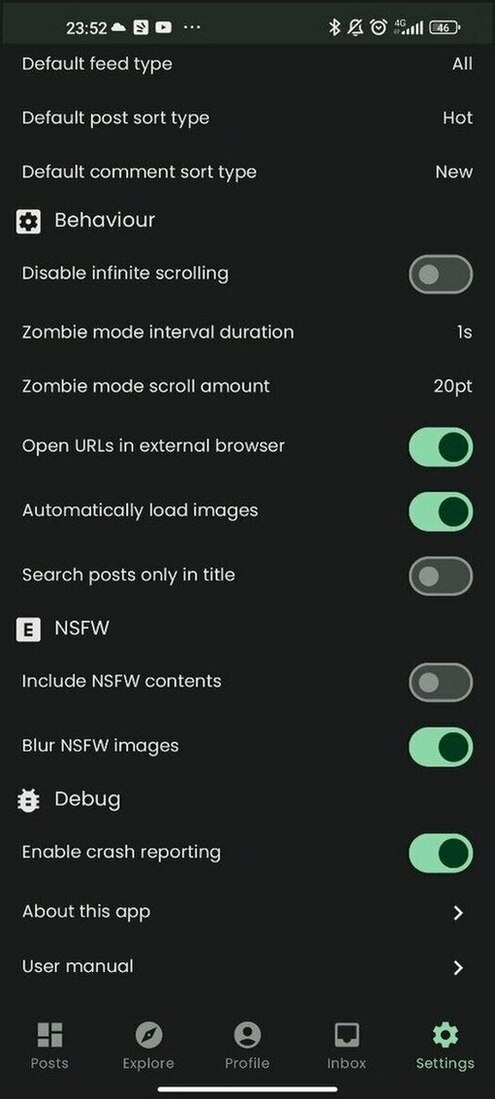
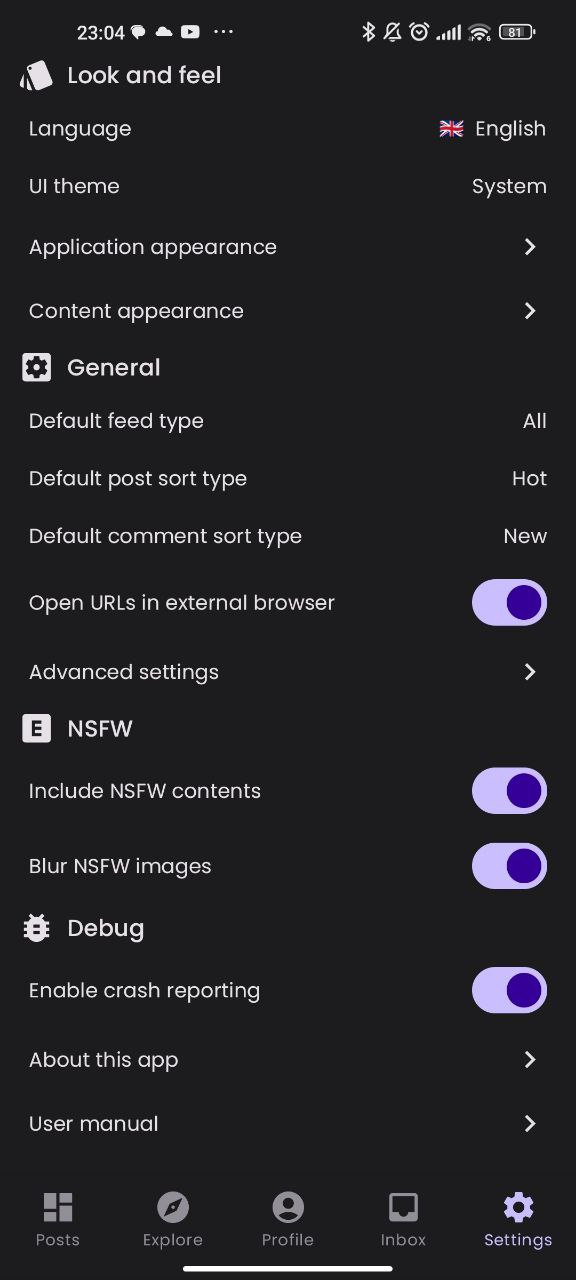
chore: update user manual (#637)

diff --git a/docs/user_manual/anon_user.md b/docs/user_manual/anon_user.md
@@ -45,6 +45,8 @@ If your preferred instance is not listed, you can add a new one using the "+" bu
 <img width="310" alt="side menu select instance" src="images/anon_select_instance.png" />
 <img width="310" alt="add instance" src="images/anon_add_instance.png" />
 
+It is possible to reorder items in this list to arrange how instances are displayed.
+
 ### 1.4 Community detail
 
 By tapping on the community info above each post title, you can open the community detail screen,
@@ -72,7 +74,17 @@ information.
 The explore screens allows you to search Lemmy (among All or local feeds) for contents and filter by
 a query string and result type (post, comment, communities, users or everything).
 
-<img width="310" alt="explore" src="images/anon_explore.png" />
+You can change the result type with the second to last action in the top bar, the available options are:
+
+- posts
+- communities
+- comments
+- users
+- URLs.
+
+As in the home screen, you can change the sort type with the last action on the right in the top bar.
+
+<img width="310" alt="explore" src="images/explore.jpg" />
 
 ### 1.7 Profile and Inbox
 
@@ -89,38 +101,15 @@ The settings screen allows you to customize the look and behaviour of your app.
 - Look and feel:
     - Language: choose UI language (app specific);
     - UI theme: choose between light, dark, totally dark or system theme;
-    - System notification and navigation bar theme: if you enable edge-to-edge display, choosing "
-      Transparent" makes the status and nav bar completely transparent, otherwise they have the
-      system color with a slight alpha to make them more visible;
-    - Show navigation bar titles: include the section titles in the bottom navigation bar;
-    - Colors and fonts: opens the color and font configuration screen;
-- Post and comments:
-    - Post layout: choose a layout (Card, Compact, Full) for posts;
-    - Use display names for users and communities: if enabled, uses the user display name and the
-      community title whenever possible, otherwise fallbacks to Lemmy handles (
-      e.g. `!raccoonforlemmy@lemmy.world`);
-    - Vote format: see the score of posts and comments as aggregated (`upvotes - downvotes`), split
-      or percentage (`upvotes / (upvotes + downvotes) * 100`);
-    - Full height images: show images with scaled width and full height (instead of capping the
-      height) in the feed;
+    - Application appearance: opens the configuration screen for colors and fonts of the user interface;
+    - Content appearance: opens the configuration screen for fonts and style of posts and comments;
+- General:
     - Default feed type: listing type for the home screen applied by default
     - Default post sort type: sort type for the home, community detail and user detail applied by
       default;
     - Default comment sort type: sort type for post detail applied by default to comments;
-- Behaviour:
-    - Edge to edge contents: enable the view from top to bottom edge for home, community detail,
-      user detail, post detail and profile to maximize the space dedicated to contents;
-    - Disable infinite scrolling: if this option is enabled, instead of automatically fetching new
-      contents while scrolling (in home, community detail, post detail, user detail) an explicit "
-      Load more" button is shown, in order to prevent the "doom scrolling" effect;
-    - Zombie mode interval duration: amount of time between automatic scroll in "lazy mode";
-    - Zombie mode scroll amount: translation amount for the automatic scroll in "lazy mode";
-    - Hide navigation bar while scrolling: makes the bottom navigation bar invisible while scrolling
-      down to maximize the space dedicated to contents;
-    - Open links in external browser: rely on the external browser instead of in-app web view;
-    - Automatically expand comments: expand all comment threads while opening the post detail;
-    - Automatically load images: load images and videos automatically in post and comments;
-    - Search posts only in title: enable exact match in the Explore section while searching posts;
+    - Open URLs in external browser: rely on the external browser instead of in-app web view;
+    - Advanced settings: opens a detailed configuration screen for more advanced options;
 - NSFW:
     - Include NSFW contents: determine whether NSFW contents are included in the feed by default;
     - Blur NSFW images: in home feed and community (unless the community is marked as NSFW as a
@@ -145,7 +134,7 @@ via adb or the "Device Explorer" if you are using Android Studio.
 <img width="310" alt="settings first part" src="images/anon_settings_1.jpg" />
 <img width="310" alt="settings second part" src="images/anon_settings_2.jpg" />
 
-#### 1.8.1 Colors and fonts
+#### 1.8.1 Application appearance
 
 This screen allows to configure colors and fonts of the UI:
 
@@ -154,12 +143,8 @@ This screen allows to configure colors and fonts of the UI:
 - Custom theme color: (requires "Use dynamic color" option to be off) generate a palette by
   choosing a seed color from a predefined list or custom color;
 - Comment bar theme: palette of colors used to distinguish nested comments;
-- Comment bar width: allows to customize a multiplier applied to the width of comment bar indicating
-  the depth on the left of each comment;
-- UI font family: typeface used for the app UI elements (menus, labels, etc);
-- Content font family: typeface used for post and comments on Lemmy;
+- UI font: typeface used for the app UI elements (menus, labels, etc.);
 - UI text size: scale factor to apply to the app UI elements;
-- Content text size: scale factor to apply to posts and comments on Lemmy;
 
 By the way, if you like Android dynamic colors and you think that on Lemmy there are plenty of
 beautiful images you could set as your home screen background, have a look
@@ -167,7 +152,65 @@ at [this side project](https://github.com/diegoberaldin/CommonGround) of mine. I
 that allows you to configure remote image sources from the Lemmy-verse, preview how they look like
 and set them easily as wallpapers for your home and lock screens.
 
-<img width="310" alt="colors and fonts" src="images/anon_color_fonts.jpg" />
+<img width="310" alt="colors and fonts" src="images/anon_appearance.jpg" />
+
+#### 1.8.2 Content appearance
+
+This screen is useful to configure the aspect of Lemmy contents (usernames, community names, post and comments).
+
+- Text
+    - Content font family: typeface used for post and comments on Lemmy;
+    - Title text size:
+    - Post text size:
+    - Comment text size:
+    - Ancillary text size:
+- Customizations:
+    - Post layout:  choose a layout (Card, Compact, Full) for posts;
+    - Use display names for users and communities: if enabled, uses the user display name and the
+      community title whenever possible, otherwise fallbacks to Lemmy handles (
+      e.g. `!raccoonforlemmy@lemmy.world`);
+    - Full height images: show images with scaled width and full height (instead of capping the
+      height) in the feed;
+    - Vote format: see the score of posts and comments as aggregated (`upvotes - downvotes`), split
+      or percentage (`upvotes / (upvotes + downvotes) * 100`);
+    - Comment bar thickness: allows to customize a multiplier applied to the width of comment bar indicating
+      the depth on the left of each comment.
+
+You can see a preview of the result below the list of options.
+
+<img width="310" alt="settings first part" src="images/content_appearance_1.jpg" />
+<img width="310" alt="settings second part" src="images/content_appearance_2.jpg" />
+
+#### 1.8.3 Advanced settings
+
+This screen contains a series of less frequently used customization options:
+
+- Display:
+    - Show navigation bar titles: include the section titles in the bottom navigation bar;
+    - Edge to edge contents: enable the view from top to bottom edge for home, community detail,
+      user detail, post detail and profile to maximize the space dedicated to contents;
+    - System notification and navigation bar theme: if you enable edge-to-edge display, choosing "
+      Transparent" makes the status and nav bar completely transparent, otherwise they have the
+      system color with a slight alpha to make them more visible;
+    - Hide navigation bar while scrolling: makes the bottom navigation bar invisible while scrolling
+      down to maximize the space dedicated to contents;
+- Reading and contents:
+    - Default feed type for explore: default listing type used in the Explore screen;
+    - Default language in editor: language for newly created posts and comments;
+    - Disable infinite scrolling: if this option is enabled, instead of automatically fetching new
+      contents while scrolling (in home, community detail, post detail, user detail) an explicit "
+      Load more" button is shown, in order to prevent the "doom scrolling" effect;
+    - Automatically expand comments: expand all comment threads while opening the post detail;
+    - Zombie mode interval duration: amount of time between automatic scroll in "lazy mode";
+    - Zombie mode scroll amount: translation amount for the automatic scroll in "lazy mode";
+- Pictures
+    - Automatically load images: load images and videos automatically in post and comments;
+    - Save images in specific subdirectories: use the community or user handle to save images when downloading them
+      into your Gallery;
+- Experiments:
+    - Search posts only in title: enable exact match in the Explore section while searching posts;
+
+<img width="310" alt="settings first part" src="images/anon_advanced_settings.jpg" />
 
 ### 1.9 Moderation log
 

diff --git a/docs/user_manual/logged_user.md b/docs/user_manual/logged_user.md
@@ -2,7 +2,7 @@
 
 ### 2.1 Home
 
-As for anonymous users, the home screen contains the post list with the same information displayed.
+When you are logged, as for anonymous users, the home screen contains the post list with the same information displayed.
 The main difference is that, as a logged user, you can save posts and vote (either up or down)
 contents. You will also find more options in the "…" button.
 
@@ -15,9 +15,10 @@ enabled the "Mark read while scrolling" option in the Settings screen) just seen
 
 ### 2.2 Sidebar
 
-For logged users, the side menu allows to see the list of subscriptions, with the ones that you
-marked as favorite to the top of the list. By clicking on each item, you will open the corresponding
-community or multi-community detail.
+The side menu allows to see the list of subscriptions, with the ones that you marked as favorite to the top of the list.
+By clicking on each item, you will open the corresponding community or multi-community detail.
+
+You can use the search field to look for a specific community.
 
 <img width="310" alt="side bar" src="images/logged_side_menu.jpg" />
 
@@ -26,12 +27,24 @@ community or multi-community detail.
 The Explore screen is similar to the one of anonymous users. Like in the home screen, the difference
 if that you can vote, save and reply to contents you are seeing.
 
-<img width="310" alt="explore" src="images/logged_explore.jpg" />
+<img width="310" alt="explore" src="images/explore.jpg" />
 
 ### 2.4 Profile
 
 The Profile screen shows the list of post and comments that you created and some textual statistics
 about your post and comment count and your Lemmy-birthday.
+
+Above the post and comments, you can find the shortcuts to access the following sections:
+
+- Manage subscriptions: a screen where you can review your subscriptions and create multi-communities
+- Saved: access the list of your saved items (posts and comments);
+- Drafts: access the unfinished posts and comments that you have saved;
+- Upvotes &amp; downvotes: review the contents that you have liked or disliked;
+- Moderation tools: if you are a moderator you can easily access:
+    - Report list: list of all the reports for posts and comments in your communities;
+    - Moderation log: global moderation log;
+    - Moderated contents: review all the contents that have been posted (either in the form of posts or comments) to
+      your communities.
 
 In the top right corner of the app bar, you'll find a button to log out and another one to change
 account (or access with a different one).
@@ -59,29 +72,24 @@ The settings screen for logged users is very similar to the one of anonymous use
 additional items and sub-screens.
 
 Please refer to [description of the page](#18-settings) for anonymous users for the common parts,
-here is a description of the additional functions:
+a short description of the additional functions will follow.
 
-- Posts and comments:
-    - Default inbox type: whether the Inbox includes all contents by default of just unread ones;
-- Behaviour:
-    - Mark posts as read when scrolling: instead of marking posts read with an explicit
-      interaction, posts are marked as read on the fly as they become visible while scrolling;
-    - Enable double tap action: instead of using swipe actions, this option activated the "
-      double tap to like" mode some users may be familiar with from other social apps;
-    - Configure swipe actions: opens the configure swipe actions screen;
-    - Enable swipe actions: whether the swipe to left/right actions are enabled in post and comment
+- General:
+    - Default feed type: you will find the "Subscribed" option which is not available for anonymous users;
+    - Enable swipe actions:whether the swipe to left/right actions are enabled in post and comment
       list, inbox and reports;
+    - Configure swipe actions: opens the configure swipe actions screen;
 - Account settings:
-    - Web preferences: allows you to edit web account preferences;
+    - Web preferences: allows you to edit your Lemmy web preferences;
     - Bans and filters: configure user/community/instance ban and filtering options.
 
 <img width="310" alt="settings 1" src="images/logged_settings_1.jpg" />
 <img width="310" alt="settings 3" src="images/logged_settings_2.jpg" />
-<img width="310" alt="settings 2" src="images/logged_settings_3.jpg" />
 
-#### 2.6.1 Colors and fonts
+#### 2.6.1 Application appearance
 
-This screen for anonymous users allows to configure custom colors for swipe actions:
+This screen is similar to the one for anonymous users, but additionally it allows to configure custom colors for swipe
+actions:
 
 - Upvote color: color of the upvote action (both used as a card background when swiping and to
   highlight the vote indicator when you have upvoted a content);
@@ -90,7 +98,18 @@ This screen for anonymous users allows to configure custom colors for swipe acti
 - Reply action color: card background color for the reply action;
 - Save action color: card background color for the save action;
 
-<img width="310" alt="colors and fonts" src="images/logged_color_fonts.jpg" />
+#### 2.6.2 Advanced settings
+
+Even in this case, the screen is very similar to the one anonymous users are presented, but it has some additional
+options:
+
+- Reading and contents:
+    - Default inbox type: whether the Inbox includes all contents by default of just unread ones;
+    - Mark posts as read when scrolling: instead of marking posts read with an explicit
+      interaction, posts are marked as read on the fly as they become visible while scrolling;
+- Experiments:
+    - Enable double tap action: instead of using swipe actions, this option activated the "double tap to like" mode some
+      users may be familiar with from other social apps.
 
 #### 2.6.2 Configure swipe actions
 
